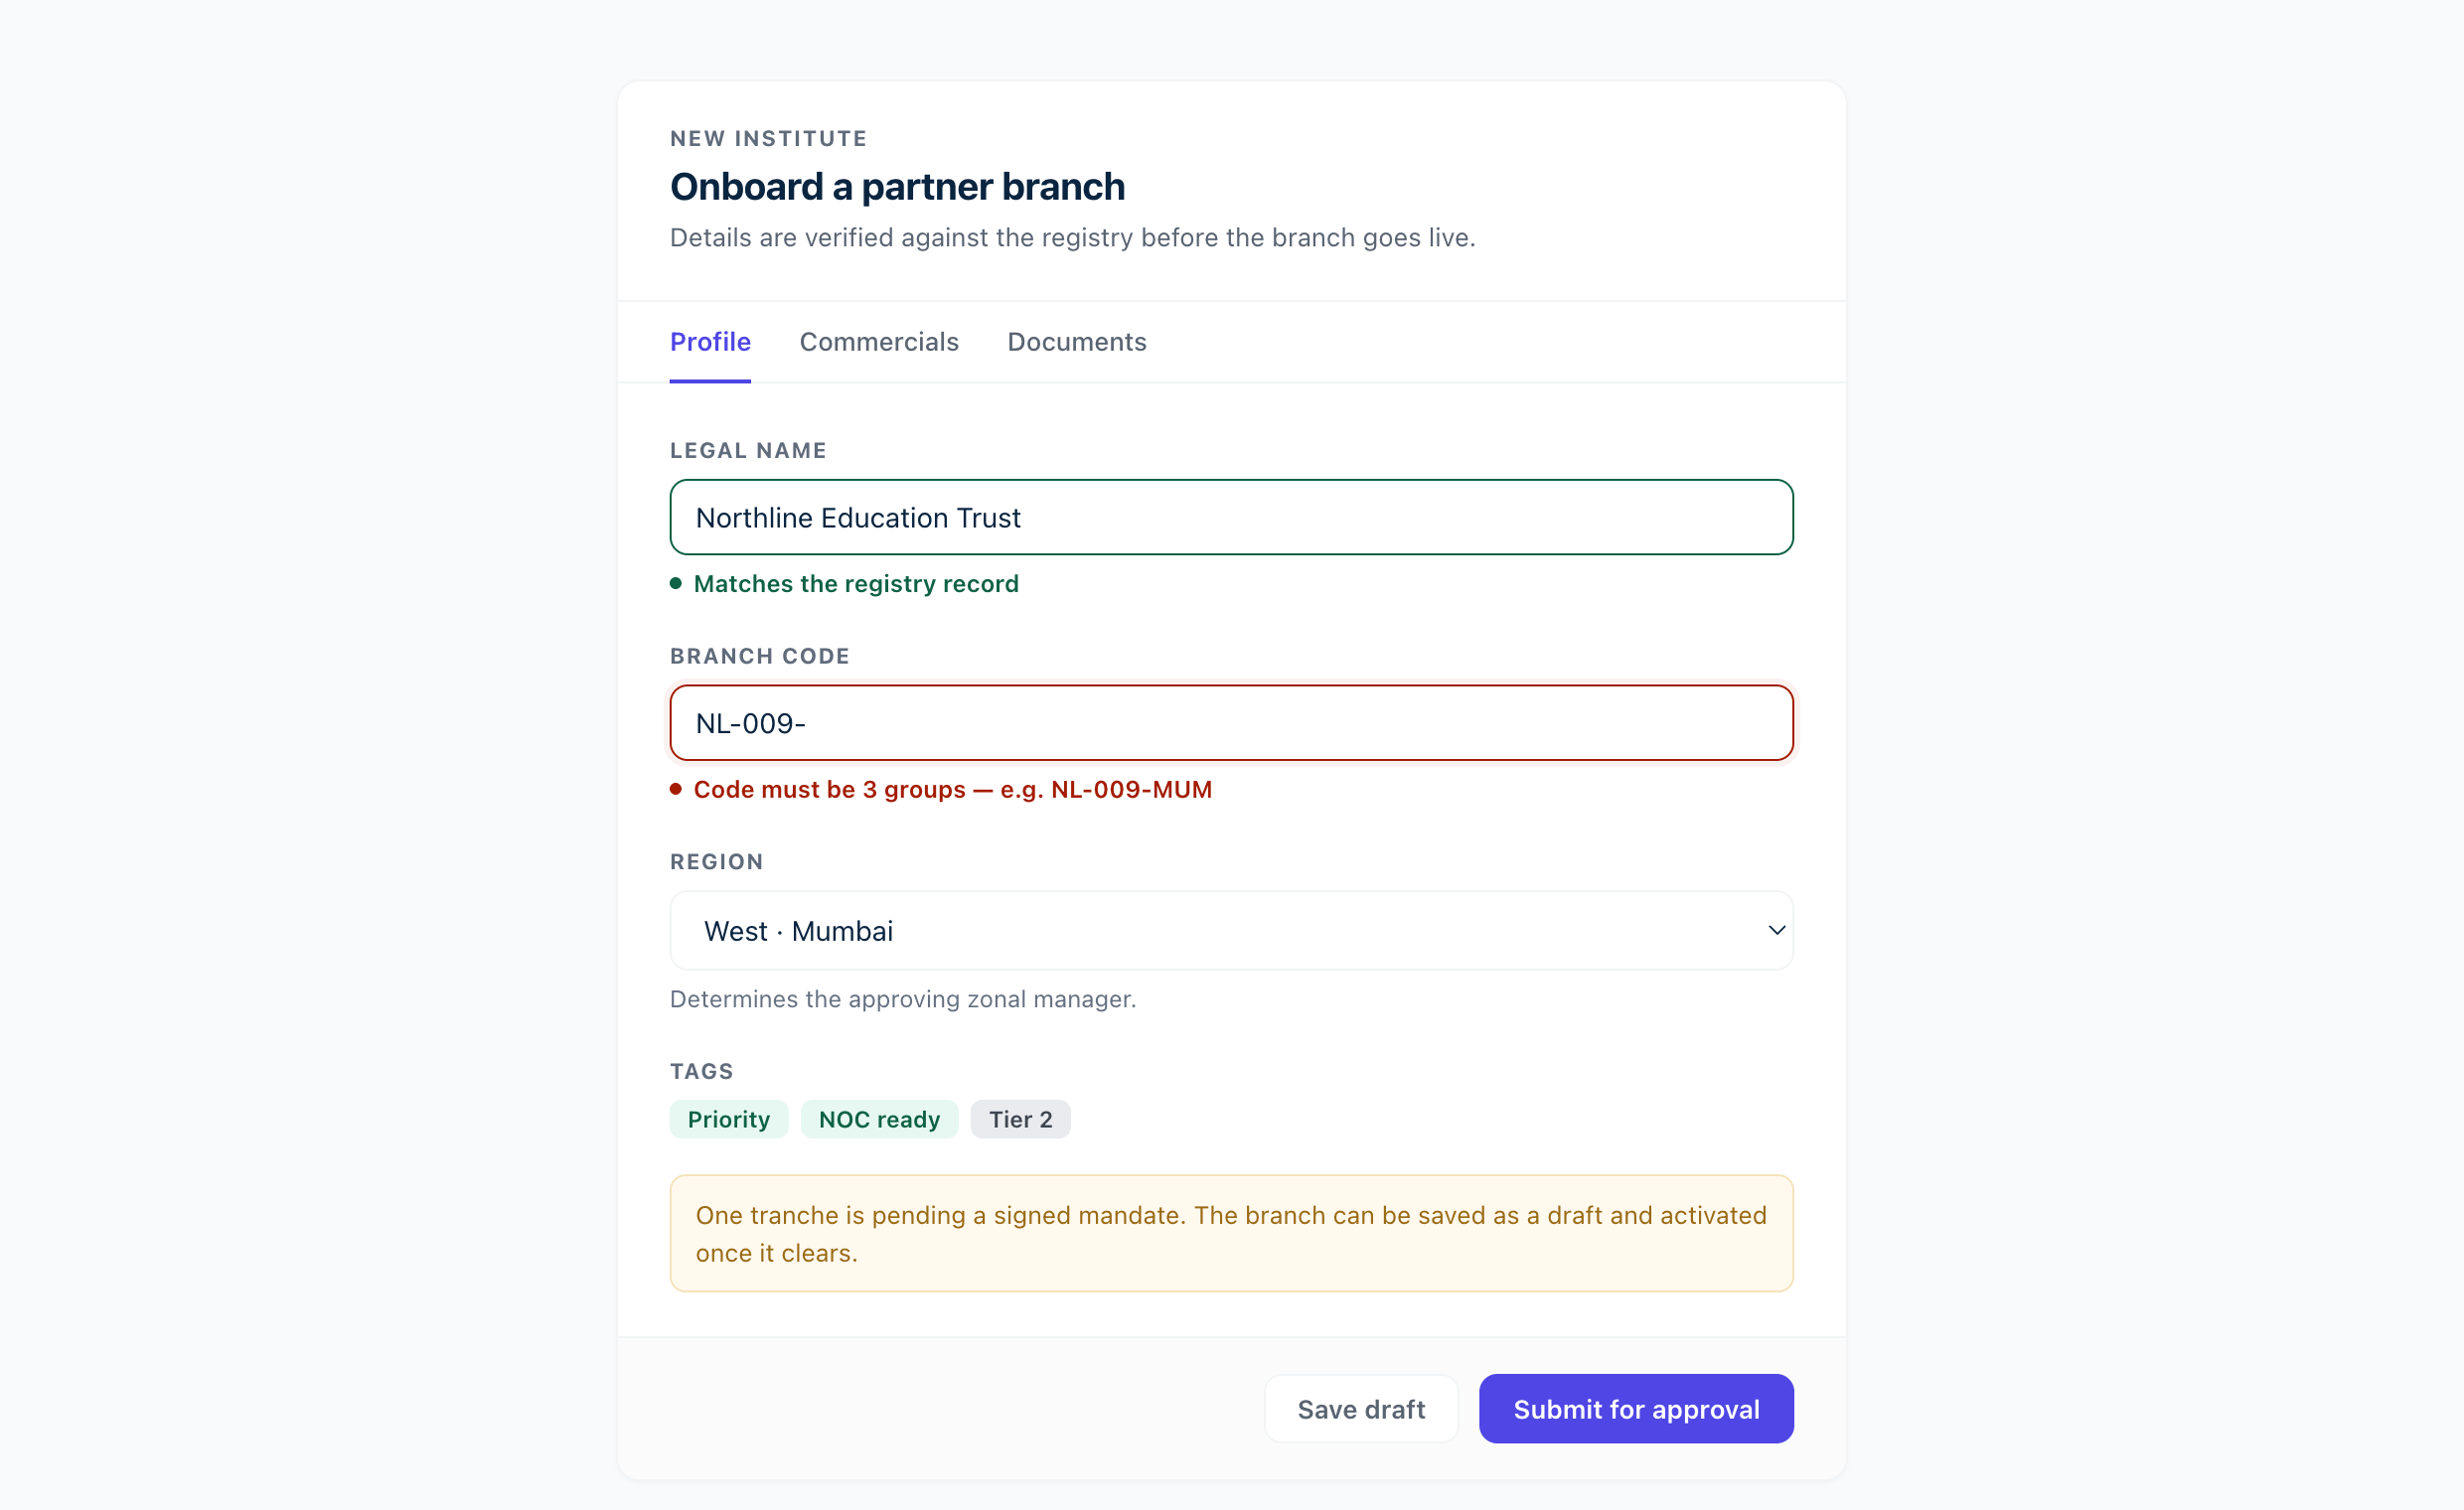
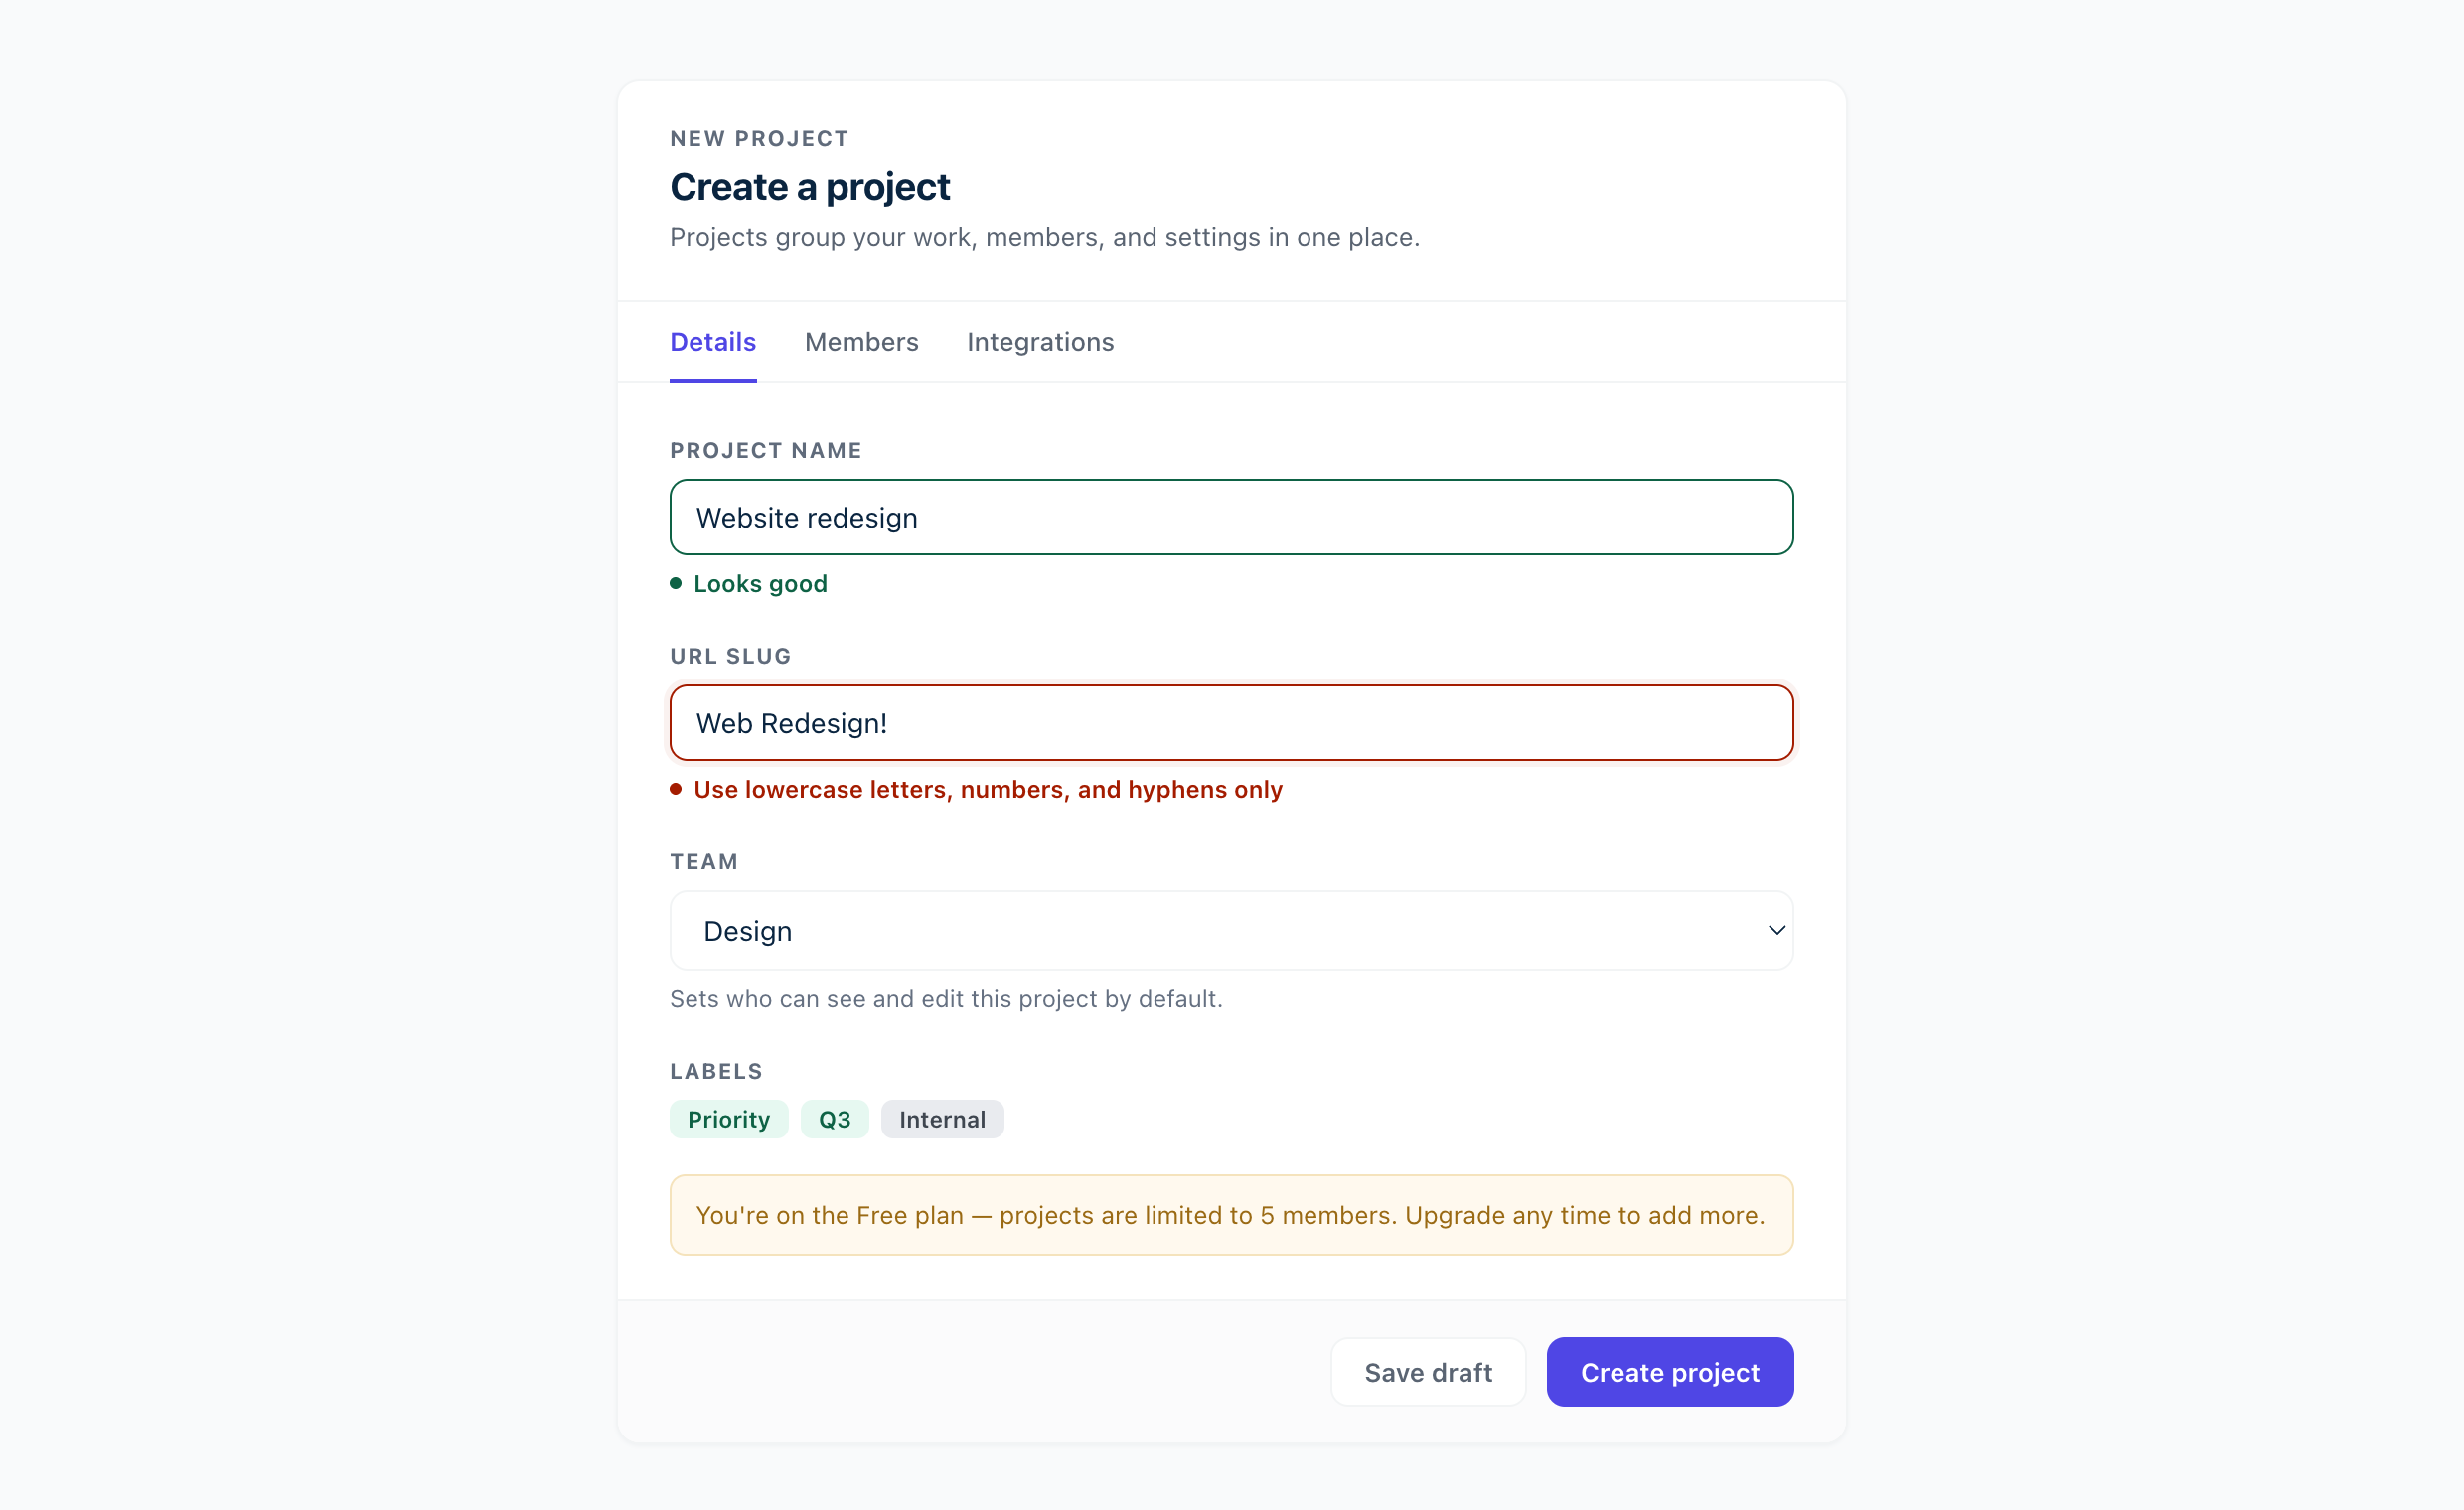
post-ship(v0.14.0): neutralize gold domain + tighten selftest regression floor
Post-ship critique loop findings, fixed before SHIPPED:
- F2: rewrite the 3 visual-gold pages with generic SaaS-neutral content (growth dashboard,
  create-project form, team-workload table) — same recipes + craft, but no author-domain
  vocabulary. Passes anti-drift-grep (0 off-theme) + compose-check; re-rendered PNGs.
- F1: re-pin FLOOR_SELFTEST 118→349 (was pre-existing slack) so the selftest regression
  guard is a tight baseline like FLOOR_SMOKE; updated the INV-RECON fixtures + self-assert.

recon PASS (smoke 114/114, selftest 349/349, 12 INV groups).

diff --git a/plugins/compass/skills/rk-house-style/gallery/dashboard.html b/plugins/compass/skills/rk-house-style/gallery/dashboard.html
@@ -13,7 +13,6 @@
     --redFg:#A41C00; --redBg:#FCE8E6;
     --chipFg:#3F4650; --chipBg:#E9EBEF;
     --bg:#F9FAFB; --surface:#FFFFFF; --headBg:#FBFBFC; --line:#F2F4F5; --grid:#F0F1F3;
-    --sans:'Inter',-apple-system,BlinkMacSystemFont,'Segoe UI',Roboto,sans-serif;
   }
   *{box-sizing:border-box;margin:0}
   body{background:var(--bg);color:var(--ink);
@@ -61,30 +60,30 @@
 <body>
 <div class="wrap">
   <div class="topbar">
-    <div><div class="kicker">Portfolio overview</div><h1>Origination performance</h1></div>
-    <div class="sub">Fiscal year to date · updated 2 min ago</div>
+    <div><div class="kicker">Product overview</div><h1>Growth dashboard</h1></div>
+    <div class="sub">Last 30 days · updated 2 min ago</div>
   </div>
 
   <div class="grid-top">
     <div class="card hero">
-      <div class="kicker">Total disbursed</div>
-      <div class="big">1,284.6</div>
+      <div class="kicker">Monthly revenue</div>
+      <div class="big">$84.2K</div>
       <div class="row">
-        <span class="pill"><span class="dot"></span>Ahead of pace</span>
-        <span class="sub" style="font-size:13px;color:var(--mut)">₹ Cr · +12.4% vs target</span>
+        <span class="pill"><span class="dot"></span>Ahead of plan</span>
+        <span class="sub" style="font-size:13px;color:var(--mut)">+12.4% vs plan</span>
       </div>
-      <div class="ctx">Target for the period was <b>1,142 Cr</b>; the run-rate closes the year at <b>1,910 Cr</b> if it holds.</div>
+      <div class="ctx">Plan for the month was <b>$75.0K</b>; the current run-rate reaches <b>$1.02M ARR</b> if it holds.</div>
       <hr>
       <div class="substats">
-        <div><div class="kicker">Live loans</div><div class="v">38,204</div><div class="c">+1,046 this month</div></div>
-        <div><div class="kicker">Avg ticket</div><div class="v">33,620</div><div class="c">₹ · stable</div></div>
-        <div><div class="kicker">Approval rate</div><div class="v">71.8%</div><div class="c">+2.1 pts</div></div>
+        <div><div class="kicker">Active users</div><div class="v">12,480</div><div class="c">+1,046 this month</div></div>
+        <div><div class="kicker">Conversion</div><div class="v">3.8%</div><div class="c">trial → paid</div></div>
+        <div><div class="kicker">Net retention</div><div class="v">112%</div><div class="c">+4 pts</div></div>
       </div>
     </div>
 
     <div class="card chartcard">
-      <div class="hd"><div class="kicker">Cumulative vs target</div><div class="val">₹ Cr</div></div>
-      <svg viewBox="0 0 320 150" role="img" aria-label="Cumulative disbursal tracking ahead of the dashed target line">
+      <div class="hd"><div class="kicker">Revenue vs plan</div><div class="val">$K</div></div>
+      <svg viewBox="0 0 320 150" role="img" aria-label="Cumulative revenue tracking ahead of the dashed plan line">
         <line x1="0" y1="120" x2="320" y2="120" stroke="var(--grid)"/>
         <line x1="0" y1="80" x2="320" y2="80" stroke="var(--grid)"/>
         <line x1="0" y1="40" x2="320" y2="40" stroke="var(--grid)"/>
@@ -100,18 +99,18 @@
   </div>
 
   <div class="tiles">
-    <div class="tile"><div class="kicker">On-time rate</div><div class="v">96.2%</div><div class="c">rolling 90-day</div></div>
-    <div class="tile"><div class="kicker">Overdue &gt; 30d</div><div class="v warn">1.9%</div><div class="c">alert if ≥ 2.0%</div></div>
-    <div class="tile"><div class="kicker">Active branches</div><div class="v">214</div><div class="c">+6 onboarded</div></div>
-    <div class="tile"><div class="kicker">Yield</div><div class="v">14.3%</div><div class="c">net of cost</div></div>
+    <div class="tile"><div class="kicker">Uptime</div><div class="v">99.98%</div><div class="c">rolling 90-day</div></div>
+    <div class="tile"><div class="kicker">Error rate</div><div class="v warn">0.42%</div><div class="c">alert if ≥ 0.50%</div></div>
+    <div class="tile"><div class="kicker">New signups</div><div class="v">1,240</div><div class="c">+180 wk/wk</div></div>
+    <div class="tile"><div class="kicker">NPS</div><div class="v">62</div><div class="c">+5 vs Q2</div></div>
   </div>
 
   <div class="card funnel">
-    <div class="kicker">Pipeline by stage</div>
-    <div class="frow"><div class="lbl">Applications</div><div class="track"><div class="fill" style="width:100%"></div></div><div class="amt">9,120</div></div>
-    <div class="frow"><div class="lbl">Underwriting</div><div class="track"><div class="fill" style="width:74%"></div></div><div class="amt">6,749</div></div>
-    <div class="frow"><div class="lbl">Approved</div><div class="track"><div class="fill" style="width:58%"></div></div><div class="amt">5,290</div></div>
-    <div class="frow"><div class="lbl">Disbursed</div><div class="track"><div class="fill" style="width:46%"></div></div><div class="amt">4,196</div></div>
+    <div class="kicker">Activation funnel</div>
+    <div class="frow"><div class="lbl">Visitors</div><div class="track"><div class="fill" style="width:100%"></div></div><div class="amt">48,900</div></div>
+    <div class="frow"><div class="lbl">Signups</div><div class="track"><div class="fill" style="width:62%"></div></div><div class="amt">9,120</div></div>
+    <div class="frow"><div class="lbl">Activated</div><div class="track"><div class="fill" style="width:41%"></div></div><div class="amt">5,980</div></div>
+    <div class="frow"><div class="lbl">Paid</div><div class="track"><div class="fill" style="width:24%"></div></div><div class="amt">3,470</div></div>
   </div>
 </div>
 </body>

diff --git a/plugins/compass/skills/rk-house-style/gallery/form.html b/plugins/compass/skills/rk-house-style/gallery/form.html
@@ -54,44 +54,44 @@
 <body>
   <form class="card">
     <div class="head">
-      <div class="kicker">New institute</div>
-      <h1>Onboard a partner branch</h1>
-      <p>Details are verified against the registry before the branch goes live.</p>
+      <div class="kicker">New project</div>
+      <h1>Create a project</h1>
+      <p>Projects group your work, members, and settings in one place.</p>
     </div>
     <div class="tabs">
-      <div class="tab active">Profile</div>
-      <div class="tab">Commercials</div>
-      <div class="tab">Documents</div>
+      <div class="tab active">Details</div>
+      <div class="tab">Members</div>
+      <div class="tab">Integrations</div>
     </div>
     <div class="body">
       <div class="field">
-        <label><span class="lk">Legal name</span></label>
-        <input class="ok" value="Northline Education Trust">
-        <span class="msg ok"><span class="g"></span>Matches the registry record</span>
+        <label><span class="lk">Project name</span></label>
+        <input class="ok" value="Website redesign">
+        <span class="msg ok"><span class="g"></span>Looks good</span>
       </div>
       <div class="field">
-        <label><span class="lk">Branch code</span></label>
-        <input class="err" value="NL-009-">
-        <span class="msg err"><span class="g"></span>Code must be 3 groups — e.g. NL-009-MUM</span>
+        <label><span class="lk">URL slug</span></label>
+        <input class="err" value="Web Redesign!">
+        <span class="msg err"><span class="g"></span>Use lowercase letters, numbers, and hyphens only</span>
       </div>
       <div class="field">
-        <label><span class="lk">Region</span></label>
-        <select><option>West · Mumbai</option><option>South · Bengaluru</option></select>
-        <span class="hint">Determines the approving zonal manager.</span>
+        <label><span class="lk">Team</span></label>
+        <select><option>Design</option><option>Engineering</option><option>Marketing</option></select>
+        <span class="hint">Sets who can see and edit this project by default.</span>
       </div>
       <div class="field">
-        <label><span class="lk">Tags</span></label>
+        <label><span class="lk">Labels</span></label>
         <div class="chips">
           <span class="chip">Priority</span>
-          <span class="chip">NOC ready</span>
-          <span class="chip n">Tier 2</span>
+          <span class="chip">Q3</span>
+          <span class="chip n">Internal</span>
         </div>
       </div>
-      <div class="note">One tranche is pending a signed mandate. The branch can be saved as a draft and activated once it clears.</div>
+      <div class="note">You're on the Free plan — projects are limited to 5 members. Upgrade any time to add more.</div>
     </div>
     <div class="foot">
       <button type="button" class="btn ghost">Save draft</button>
-      <button type="button" class="btn primary">Submit for approval</button>
+      <button type="button" class="btn primary">Create project</button>
     </div>
   </form>
 </body>

diff --git a/plugins/compass/skills/rk-house-style/gallery/table.html b/plugins/compass/skills/rk-house-style/gallery/table.html
@@ -48,26 +48,26 @@
 <body>
 <div class="wrap">
   <div class="head">
-    <div><div class="kicker">Monthly progress</div><h1>Branch performance</h1></div>
-    <div class="sub">April – September · ₹ Lakh</div>
+    <div><div class="kicker">This week</div><h1>Team workload</h1></div>
+    <div class="sub">Hours logged · weeks 34–37</div>
   </div>
   <div class="tablecard">
     <table>
       <thead>
         <tr>
-          <th>Branch</th><th>Target</th><th>Apr</th><th>Jul</th>
-          <th class="col-active">Sep</th><th>Attainment</th><th>Status</th>
+          <th>Member</th><th>Projects</th><th>Wk 34</th><th>Wk 35</th>
+          <th class="col-active">Wk 37</th><th>Utilization</th><th>Status</th>
         </tr>
       </thead>
       <tbody>
-        <tr><td>Mumbai · West</td><td class="muted">420.0</td><td>61.4</td><td>78.9</td><td class="col-active">92.3</td><td>108%</td><td><span class="chip ok">Ahead</span></td></tr>
-        <tr><td>Bengaluru · South</td><td class="muted">510.0</td><td>70.2</td><td>74.1</td><td class="col-active">80.6</td><td>96%</td><td><span class="chip warn">On track</span></td></tr>
-        <tr><td>Delhi · North</td><td class="muted">385.0</td><td>44.8</td><td>52.0</td><td class="col-active">58.7</td><td>71%</td><td><span class="chip risk">Behind</span></td></tr>
-        <tr><td>Pune · West</td><td class="muted">298.0</td><td>39.1</td><td>55.7</td><td class="col-active">66.2</td><td>103%</td><td><span class="chip ok">Ahead</span></td></tr>
-        <tr><td>Chennai · South</td><td class="muted">340.0</td><td>41.0</td><td>49.9</td><td class="col-active">61.4</td><td>88%</td><td><span class="chip warn">On track</span></td></tr>
+        <tr><td>Alex Chen</td><td class="muted">4</td><td>36.5</td><td>38.0</td><td class="col-active">38.5</td><td>96%</td><td><span class="chip ok">On track</span></td></tr>
+        <tr><td>Jordan Lee</td><td class="muted">3</td><td>40.2</td><td>39.6</td><td class="col-active">41.0</td><td>103%</td><td><span class="chip warn">At capacity</span></td></tr>
+        <tr><td>Sam Rivera</td><td class="muted">5</td><td>42.8</td><td>43.5</td><td class="col-active">44.2</td><td>118%</td><td><span class="chip risk">Overloaded</span></td></tr>
+        <tr><td>Priya Nair</td><td class="muted">2</td><td>30.1</td><td>31.4</td><td class="col-active">32.0</td><td>80%</td><td><span class="chip ok">On track</span></td></tr>
+        <tr><td>Taylor Kim</td><td class="muted">3</td><td>35.0</td><td>36.2</td><td class="col-active">36.8</td><td>92%</td><td><span class="chip ok">On track</span></td></tr>
       </tbody>
     </table>
-    <div class="foot"><span class="n">5 branches · 214 total</span><span class="tot">Portfolio 93.4% of target</span></div>
+    <div class="foot"><span class="n">5 members · 17 projects</span><span class="tot">Avg utilization 98%</span></div>
   </div>
 </div>
 </body>